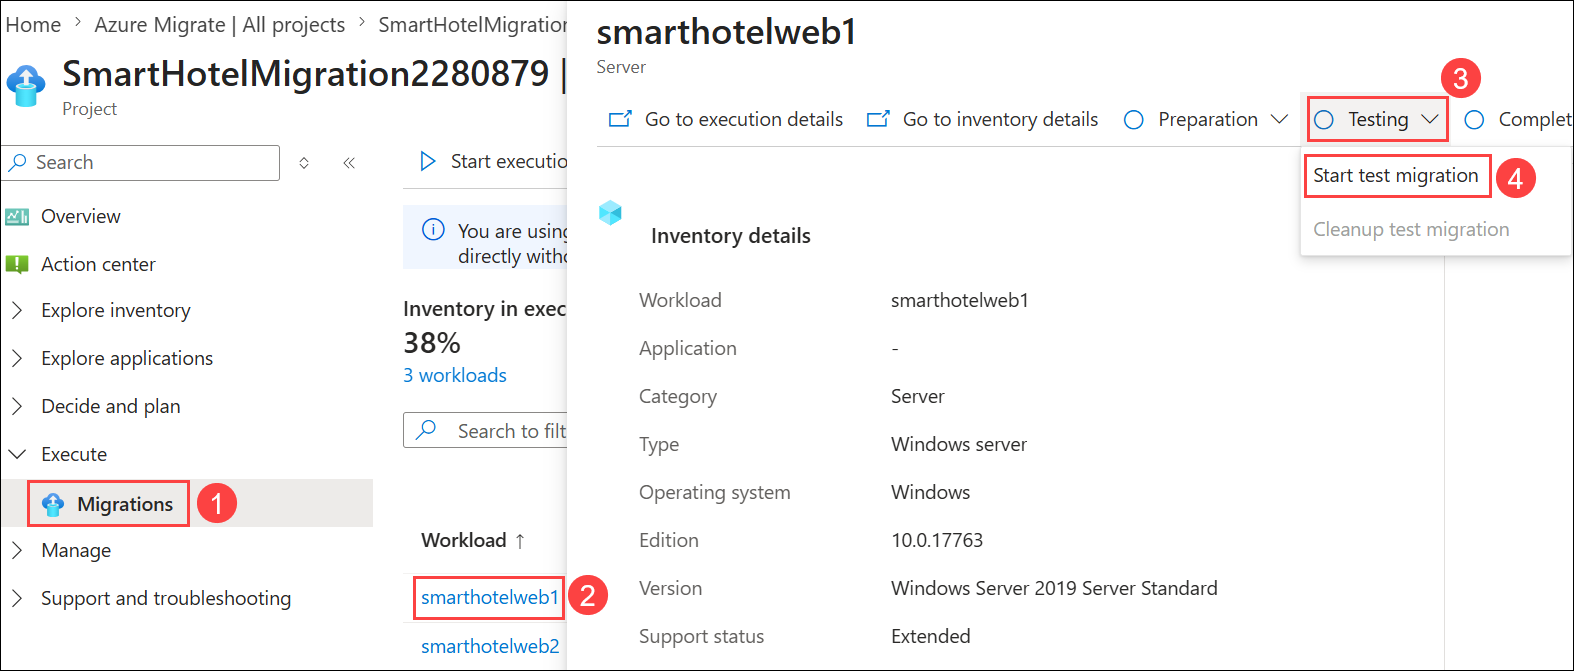
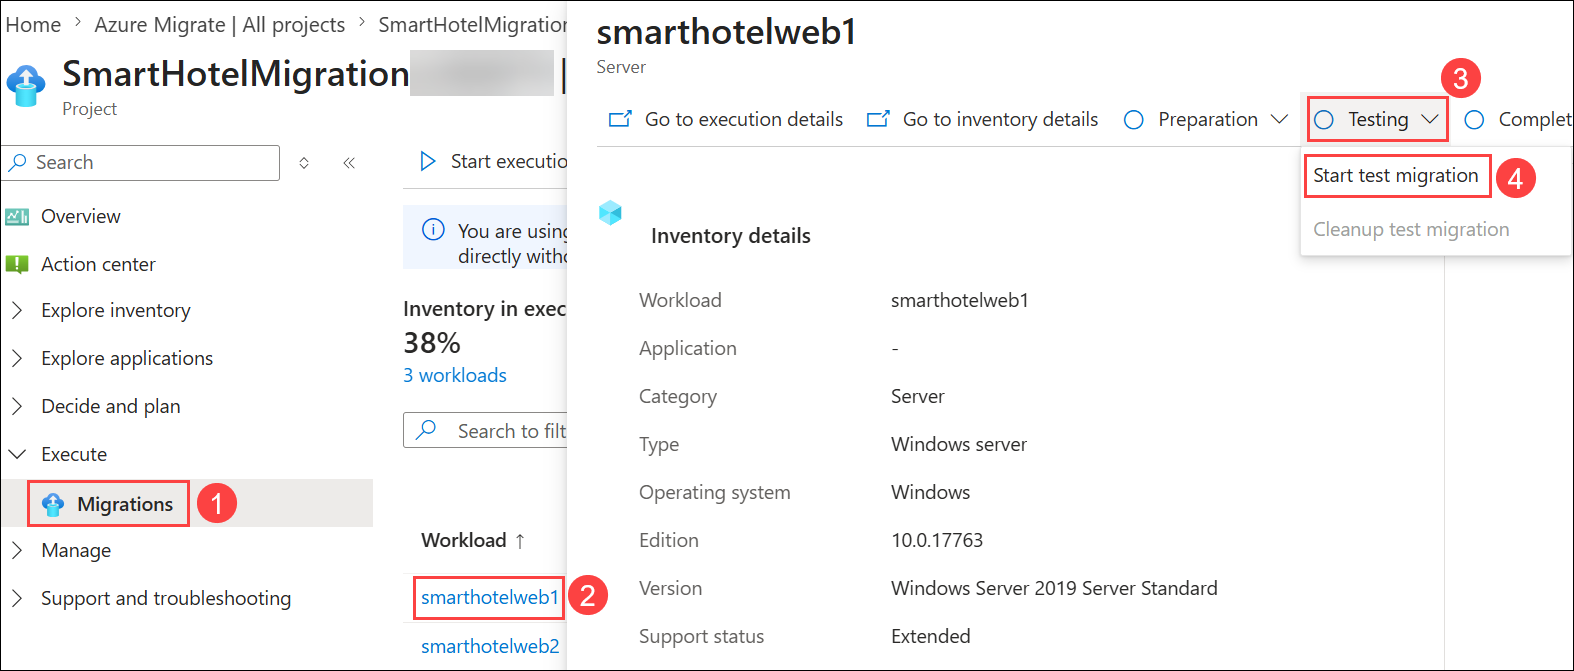
lab updates

Changed region(s): [[0.249, 0.0596, 0.3736, 0.149]]

diff --git a/Labfiles/module1-exercise3.md b/Labfiles/module1-exercise3.md
@@ -230,9 +230,21 @@ In this task, you will run a test migration for the virtual machines after delta
 
     ![](Images/H1E3T4S2.png)
 
-1. To monitor the test migration progress, under **Manage**, select **Jobs (1)**. Verify that the **Test failover** job displays the **Status** as **In progress (2)**. The test migration may take a few minutes to complete. Refresh the page periodically until the job status changes to **Successful** before proceeding to the next step.
+1. To monitor the test migration progress, under **Manage**, select **Jobs (1)**. Verify that the **Test failover** job displays the **Status** as **In progress (2)**. You can select the **Test failover** job to view additional details, including the sub-jobs and their current status. The test migration may take a few minutes to complete. Refresh the page periodically until the job status changes to **Successful** before proceeding to the next step.
 
     ![](Images/H1E3T4S3.png)
+
+1. After the test migration completes, clean up the test migration resources to remove the temporary test virtual machine before proceeding with the actual migration. Under **Execute**, select **Migrations (1)**. On the **Migrations** page, select **smarthotelweb1 (2)**, expand **Testing (3)**, and then select **Clean up test migration (4)**.
+
+    ![](Images/H1E3T4S4.png)
+
+1. On the **Test migrate cleanup** page, enter any note in the **Notes (1)** field, select **Testing is complete. Delete test virtual machine (2)**, and then click **Cleanup test (3)** to remove the test migration resources.
+
+    ![](Images/H1E3T4S5.png)
+
+1. Under **Manage**, select **Jobs (1)** to monitor the cleanup progress. Verify that the **Test failover cleanup** job is **In progress**. You can select the job to view additional details, including the sub-jobs and their current status. Refresh the page periodically until the **Test failover cleanup** job displays the **Status** as **Successful (2)** before proceeding to the next task.
+
+    ![](Images/H1E3T4S6.png)
 
 ### Task 5: Server migration
 